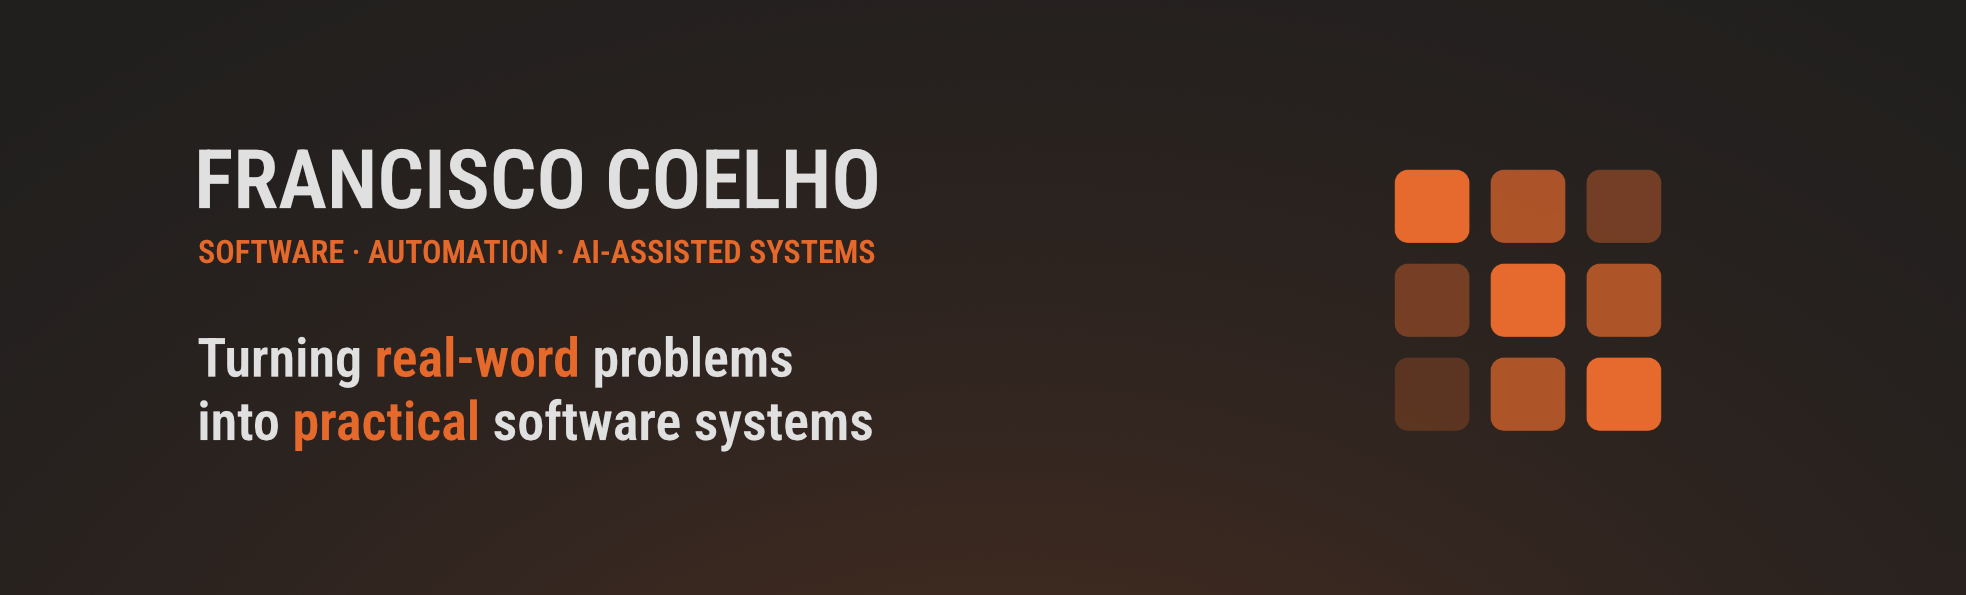
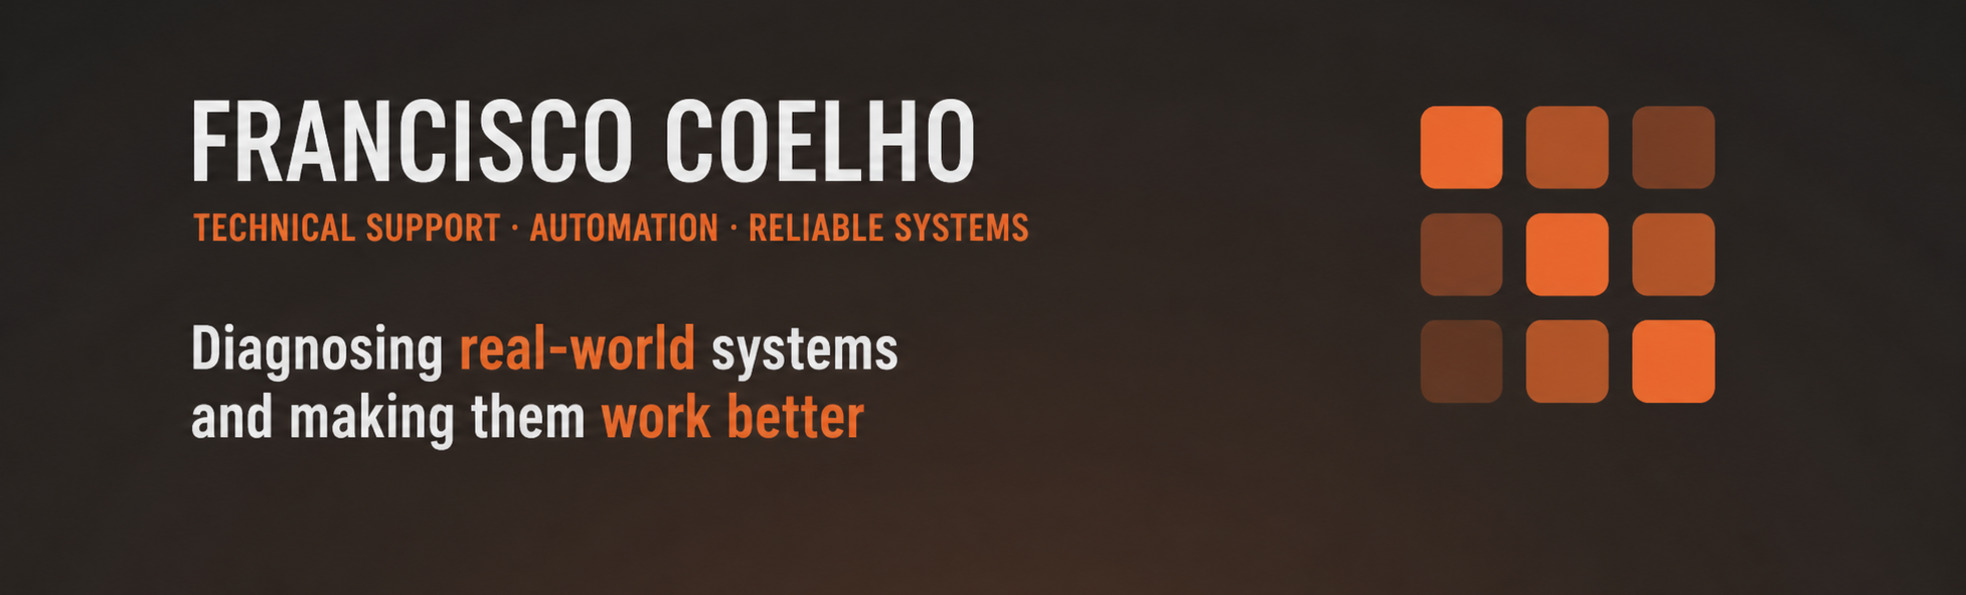
Reposition profile for support engineering

Changed region(s): [[0.0931, 0.1513, 0.5275, 0.4538], [0.6826, 0.1513, 0.8998, 0.7261], [0.0931, 0.5445, 0.4654, 0.7563]]

diff --git a/README.md b/README.md
@@ -1,106 +1,42 @@
-![Banner Image](https://raw.githubusercontent.com/leveretlogic/leveretlogic/refs/heads/main/Repo_Cover.jpg)
+![Francisco Coelho: technical support, automation and reliable systems](https://raw.githubusercontent.com/leveretlogic/leveretlogic/refs/heads/main/Repo_Cover.jpg)
 
 [![Website](https://img.shields.io/badge/Website-pixelcompile.com-E6692D?style=for-the-badge&logo=googlechrome&logoColor=white)](https://www.pixelcompile.com/)
 [![Resume](https://img.shields.io/badge/Resume-View%20Online-3A3A3A?style=for-the-badge&logo=readme&logoColor=white)](https://www.pixelcompile.com/pt/resume)
 
-<h3 align="center">Full-Stack Developer focused on internal tools, automation, and practical web systems</h3>
+<h3 align="center">Support Engineer focused on diagnosing and improving real-world systems</h3>
 
-<p align="center">
-  <a href="https://github.com/leveretlogic">
-    <img src="https://readme-typing-svg.demolab.com/?lines=Imagine,+Create+%26+Compile;Internal+Tools+%26+Automation;React,+Java,+Spring+Boot,+TypeScript&font=Fira%20Code&center=true&width=700&height=50&duration=3500&pause=1200&color=E6692D&repeat=true" alt="Typing SVG" />
-  </a>
-</p>
+I work across technical support, software and operations. My background in full-stack development helps me trace problems through the whole system: browser, API, data, automation and infrastructure.
 
-## About Me
+I care about clear reproduction steps, useful logs and fixes that stop the same incident from returning.
 
-My current stack is mainly built around **React, TypeScript, Java, Spring Boot, Node.js, SQL, and infrastructure tooling**.
+## What I work with
 
-## What I Focus On
+- API and application troubleshooting with REST, Postman, SQL and browser developer tools
+- JavaScript, TypeScript, React, Node.js, Java and Spring Boot
+- Linux services, Proxmox, nginx, Cloudflare and Tailscale
+- Monitoring, health checks, backup and recovery procedures
+- Automation with scripts, Notion integrations and n8n
 
-- Building internal tools and business systems
-- Creating automation workflows that improve reliability and reduce repetitive work
-- Developing practical full-stack web applications
-- Growing deeper in backend systems, infrastructure, and AI-enabled workflows
+## Selected work
 
-## Tech Stack
+### [Agent Mission Control](https://github.com/leveretlogic/agent-mission-control)
 
-### Frontend
-![React](https://img.shields.io/badge/-React-20232A?style=flat&logo=react&logoColor=61DAFB)
-![TypeScript](https://img.shields.io/badge/-TypeScript-3178C6?style=flat&logo=typescript&logoColor=white)
-![JavaScript](https://img.shields.io/badge/-JavaScript-F7DF1E?style=flat&logo=javascript&logoColor=black)
-![HTML](https://img.shields.io/badge/-HTML5-E34F26?style=flat&logo=html5&logoColor=white)
-![CSS](https://img.shields.io/badge/-CSS3-1572B6?style=flat&logo=css3&logoColor=white)
+Operations dashboard for a live multi-agent system. It exposes stale data, health failures and pending approvals instead of hiding them behind a green status screen. The repository includes the post-mortem of a first version that failed silently and the safeguards built into its replacement.
 
-### Backend
-![Java](https://img.shields.io/badge/-Java-007396?style=flat&logo=openjdk&logoColor=white)
-![Spring Boot](https://img.shields.io/badge/-Spring%20Boot-6DB33F?style=flat&logo=springboot&logoColor=white)
-![Node.js](https://img.shields.io/badge/-Node.js-339933?style=flat&logo=node.js&logoColor=white)
-![REST APIs](https://img.shields.io/badge/-REST%20APIs-3A3A3A?style=flat&logo=fastapi&logoColor=white)
+### [AI Reliability Patterns](https://github.com/leveretlogic/ai-reliability-patterns)
 
-### Data & Infrastructure
-![PostgreSQL](https://img.shields.io/badge/-PostgreSQL-4169E1?style=flat&logo=postgresql&logoColor=white)
-![MySQL](https://img.shields.io/badge/-MySQL-4479A1?style=flat&logo=mysql&logoColor=white)
-![Docker](https://img.shields.io/badge/-Docker-2496ED?style=flat&logo=docker&logoColor=white)
-![Linux](https://img.shields.io/badge/-Linux-FCC624?style=flat&logo=linux&logoColor=black)
-![Proxmox](https://img.shields.io/badge/-Proxmox-E57000?style=flat&logo=proxmox&logoColor=white)
-![Cloudflare](https://img.shields.io/badge/-Cloudflare-F38020?style=flat&logo=cloudflare&logoColor=white)
-![Tailscale](https://img.shields.io/badge/-Tailscale-242424?style=flat&logo=tailscale&logoColor=white)
+Small TypeScript patterns for approval gates, watchdogs, heartbeat freshness and stale-action fallbacks. Each pattern explains the failure it prevents, the trade-offs involved and where it fits in a production system.
 
-### Tools & Workflow
-![Git](https://img.shields.io/badge/-Git-F05032?style=flat&logo=git&logoColor=white)
-![GitHub](https://img.shields.io/badge/-GitHub-181717?style=flat&logo=github&logoColor=white)
-![Postman](https://img.shields.io/badge/-Postman-FF6C37?style=flat&logo=postman&logoColor=white)
-![Notion](https://img.shields.io/badge/-Notion-000000?style=flat&logo=notion&logoColor=white)
-![n8n](https://img.shields.io/badge/-n8n-EA4B71?style=flat&logo=n8n&logoColor=white)
+### [Industrial Productivity Tracking](https://github.com/leveretlogic/industrial_productivity_tracking)
 
-## Selected Work
+Engineering case study of a factory-floor system built for iPad 2 kiosks. It covers offline registration, API retry behavior, Notion-backed data and the move from cloud hosting to a local Proxmox deployment.
 
-### Agent Mission Control
-Real-time operations dashboard for a 5-agent AI orchestration platform, with
-live session streaming, executive KPI tracking, budget guardrails, approval
-queues, and automated QA health checks.
+### [Proxmox Homelab Infrastructure](https://github.com/leveretlogic/proxmox_homelab_infrastructure)
 
-[![Agent Mission Control](https://img.shields.io/badge/Repo-MissionControl%20Dashboard-E6692D?style=for-the-badge&logo=github&logoColor=white)](https://github.com/leveretlogic/agent-mission-control)
-
-### PixelCompile Website
-Business website and professional portfolio built to present services, case studies, and a clear professional identity.
-
-[![PixelCompile Website](https://img.shields.io/badge/Repo-PixelCompile%20Website-E6692D?style=for-the-badge&logo=github&logoColor=white)](https://github.com/leveretlogic/pixelcompile_portfolio)
-
-### Homelab Infrastructure
-Public repository for my Proxmox-based homelab setup, focused on infrastructure, service isolation, automation, and operational reliability.
-
-[![Homelab Infrastructure](https://img.shields.io/badge/Repo-Homelab%20Infrastructure-E6692D?style=for-the-badge&logo=github&logoColor=white)](https://github.com/leveretlogic/proxmox_homelab_infrastructure)
-
-### Industrial Productivity Tracking
-Repository for a productivity tracking system aimed at improving visibility, structure, and operational monitoring.
-
-[![Industrial Productivity Tracking](https://img.shields.io/badge/Repo-Industrial%20Productivity%20Tracking-E6692D?style=for-the-badge&logo=github&logoColor=white)](https://github.com/leveretlogic/industrial_productivity_tracking)
-
-### Dungeon Crawler Game
-A public Java project that reflects part of my learning path and hands-on development practice.
-
-[![Dungeon Crawler Game](https://img.shields.io/badge/Repo-Dungeon%20Crawler%20Game-E6692D?style=for-the-badge&logo=github&logoColor=white)](https://github.com/leveretlogic/dungeon_crawler_game)
-
-## Current Direction
-
-I’m currently deepening my work in:
-
-- Full-stack product development
-- Internal platforms and operational tooling
-- Automation and workflow improvement
-- Backend and API-focused systems
-- AI-enabled solutions with practical business value
-
-## GitHub Stats
-
-<p align="left">
-  <img src="https://ghstats.dev/api/card?username=leveretlogic&theme=dark" alt="GitHub Stats" />
-</p>
+Operational documentation for a self-hosted Proxmox platform. It covers service isolation, private and public network access, security hardening, health checks, backups and recovery.
 
 ## Contact
 
 [![LinkedIn](https://img.shields.io/badge/LinkedIn-0A66C2?style=flat&logo=linkedin&logoColor=white)](https://www.linkedin.com/in/leveretlogic/)
 [![Email](https://img.shields.io/badge/Email-D14836?style=flat&logo=gmail&logoColor=white)](mailto:francisco.coelho@pixelcompile.com)
 [![Website](https://img.shields.io/badge/Website-E6692D?style=flat&logo=googlechrome&logoColor=white)](https://www.pixelcompile.com/)
-[![Resume](https://img.shields.io/badge/Resume-Online-3A3A3A?style=flat&logo=readme&logoColor=white)](https://www.pixelcompile.com/pt/resume)
